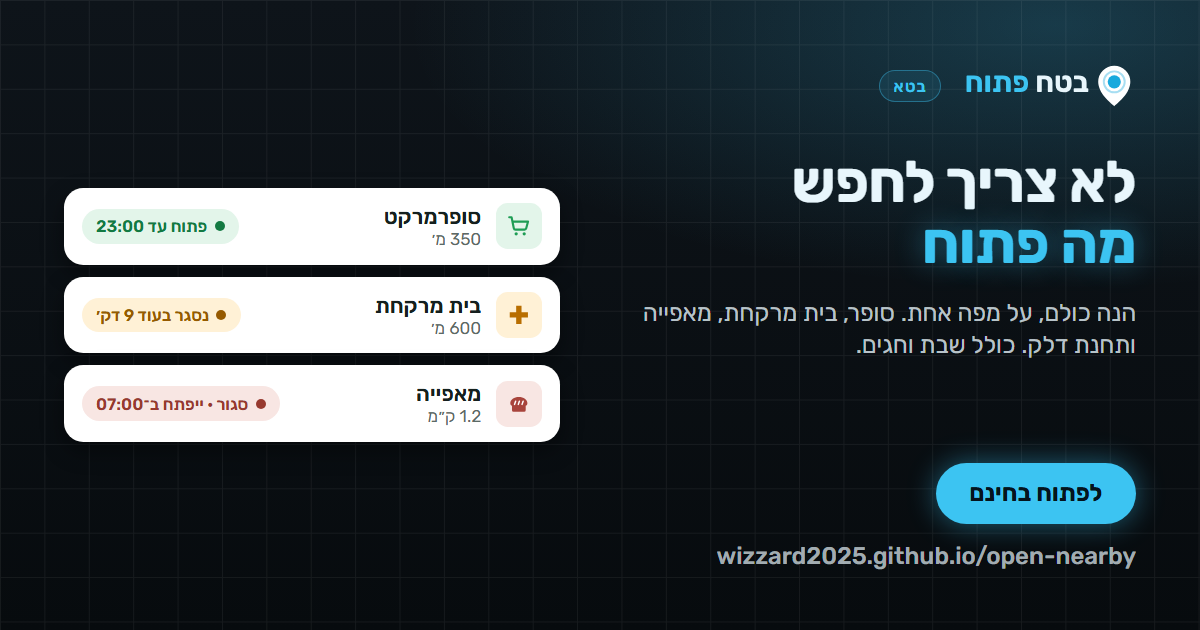
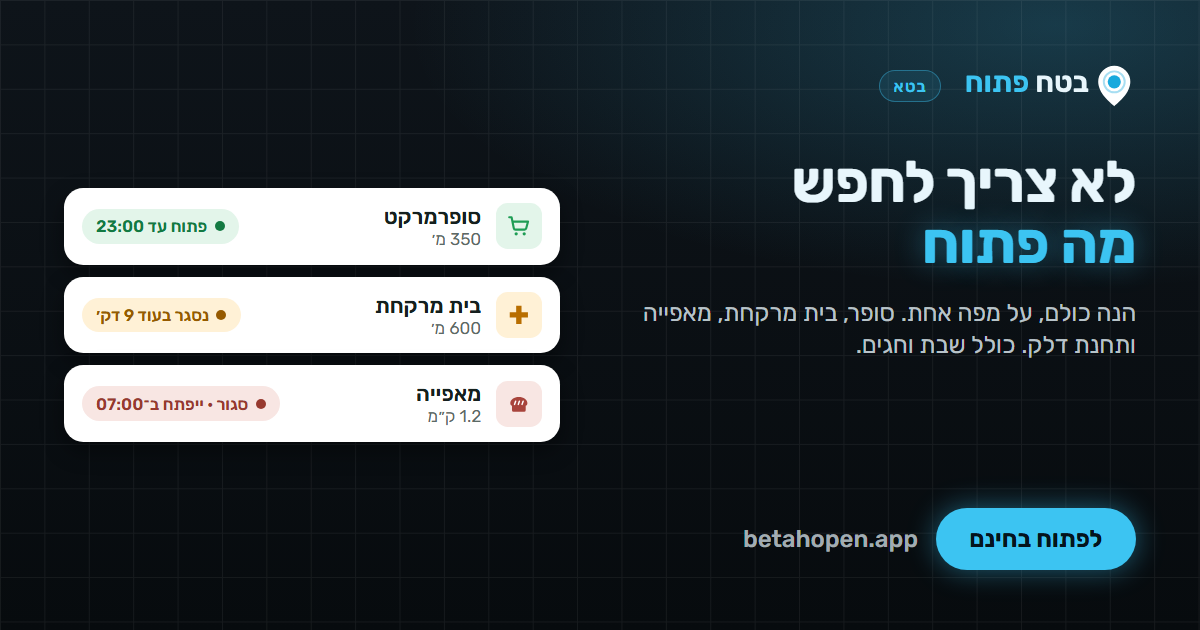
Brand kit: print betahopen.app on ads and link previews
Re-rendered posts, stories and OG images with the new domain, pointed the
brand book at https://betahopen.app/img/og.png and bumped the og:image
cache key so chats fetch the new preview.

Changed region(s): [[0.5858, 0.6937, 0.9558, 0.9349]]

diff --git a/brand/index.html b/brand/index.html
@@ -239,7 +239,7 @@ footer{padding-block:40px;color:var(--muted);font-size:14px}
 
 <section class="sec" id="ads">
   <div class="in">
-    <div class="lbl"><span class="k">Реклама</span><h2>Готовые макеты</h2><p class="muted">Пост, сторис, превью ссылки и два баннера под Google Ads. Ссылка в макетах ведёт на сайт на GitHub Pages.</p></div>
+    <div class="lbl"><span class="k">Реклама</span><h2>Готовые макеты</h2><p class="muted">Пост, сторис, превью ссылки и два баннера под Google Ads. Ссылка в макетах ведёт на betahopen.app.</p></div>
     <div class="body">
       <div class="seg" role="group" aria-label="Язык макетов">
         <button type="button" id="al-he" data-l="he">עברית</button><button type="button" id="al-ru" data-l="ru">Русский</button><button type="button" id="al-en" data-l="en">English</button>
@@ -272,7 +272,7 @@ footer{padding-block:40px;color:var(--muted);font-size:14px}
 &lt;link rel="icon" href="img/icon.svg" type="image/svg+xml"&gt;
 &lt;link rel="apple-touch-icon" href="img/apple-touch-icon.png"&gt;
 &lt;meta name="theme-color" content="#0E141A"&gt;
-&lt;meta property="og:image" content="https://wizzard2025.github.io/open-nearby/img/og.png"&gt;</pre>
+&lt;meta property="og:image" content="https://betahopen.app/img/og.png"&gt;</pre>
     </div>
   </div>
 </section>

diff --git a/index.html b/index.html
@@ -13,7 +13,7 @@
 <meta property="og:locale" content="he_IL">
 <meta property="og:locale:alternate" content="ru_RU">
 <meta property="og:locale:alternate" content="en_US">
-<meta property="og:image" content="https://betahopen.app/img/og.png?v=2">
+<meta property="og:image" content="https://betahopen.app/img/og.png?v=3">
 <meta property="og:image:width" content="1200">
 <meta property="og:image:height" content="630">
 <meta property="og:url" content="https://betahopen.app/">

diff --git a/brand/_src/render_all.py b/brand/_src/render_all.py
@@ -15,7 +15,7 @@ for d in (PNG, ADS, TMP):
     os.makedirs(d, exist_ok=True)
 
 CHROME = r"C:\Program Files\Google\Chrome\Application\chrome.exe"
-URL_SITE = "wizzard2025.github.io/open-nearby"
+URL_SITE = "betahopen.app"
 
 
 def uri(p):
